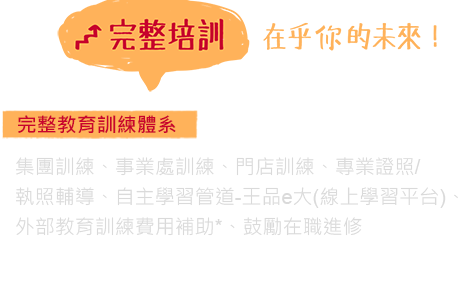
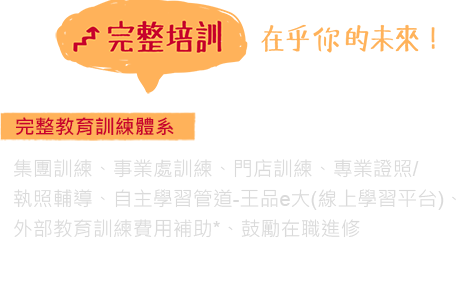
[update] update img RwD (control width)

diff --git a/layoutpractice/wang/style/style.css b/layoutpractice/wang/style/style.css
@@ -49,7 +49,7 @@ ol h2 {
   text-decoration: none;
   color: #000; }
 
-@media only screen and (max-width: 768px) {
+@media only screen and (max-width: 480px) {
   img {
     width: 100%; } }
 
@@ -183,8 +183,11 @@ ol h2 {
   background: url("../../img/bk/keyimage-bg.png") no-repeat center/cover #c9032e; }
   .banner__title-box {
     text-align: center; }
-    .banner__title-box img {
+    .banner__title-box > img {
       vertical-align: middle; }
+  @media only screen and (max-width: 768px) {
+    .banner__title-box > img {
+      width: 100%; } }
 
 .talent {
   text-align: center;
@@ -214,6 +217,9 @@ ol h2 {
   @media only screen and (max-width: 480px) {
     .talent__company-wrap {
       margin: 0; } }
+  @media only screen and (max-width: 768px) {
+    .talent__img-box--step > img {
+      width: 100%; } }
 
 .career {
   position: relative;
@@ -226,25 +232,32 @@ ol h2 {
     top: -14rem;
     margin-bottom: -14rem; }
   .career__img-box--training {
-    max-width: 459px;
-    max-height: 289px; }
-    .career__img-box--training > img {
-      width: 100%;
-      height: 100%; }
+    position: relative;
+    top: 3px; }
   .career-group {
     margin: 2.1rem 0 3.9rem; }
     .career-group > .img-box {
       display: inline-block; }
+  @media only screen and (max-width: 768px) {
+    .career__img-box--growing > img, .career__img-box--title > img {
+      width: 100%; } }
 
 .welfare {
   padding: 6.9rem 0;
   padding-bottom: 18rem;
   background: url("../../img/bk/welfare-bg.png") no-repeat center; }
-  .welfare-group > .img-box {
-    display: inline-block; }
-    .welfare-group > .img-box:nth-child(2) {
-      position: relative;
-      top: 3.9rem; }
+  .welfare__img-box--title {
+    margin-bottom: 1.2rem; }
+  .welfare-group {
+    margin-bottom: 2.1rem; }
+    .welfare-group > .img-box {
+      display: inline-block; }
+  .welfare__remark {
+    color: #c9032e;
+    font-size: 2.1rem;
+    font-weight: 400;
+    line-height: 2.1rem;
+    letter-spacing: 2px; }
 
 .active {
   box-shadow: 0 0 0 1px #cd0000; }
@@ -285,5 +298,7 @@ ol h2 {
     font-weight: 400;
     line-height: 3.5rem; }
   @media only screen and (max-width: 768px) {
+    .footer__img-box--btn > img {
+      width: 100%; }
     .footer__content__title-2 {
       text-align: center; } }

diff --git a/layoutpractice/wang/index.html b/layoutpractice/wang/index.html
@@ -56,7 +56,7 @@
                 <div class="talent__img-box talent__img-box--paragraph"><img src="./img/paragraph-1.png" alt=""></div>
                 <div class="talent__img-box talent__img-box--paragraph"><img src="./img/paragraph-2.png" alt=""></div>
             </div>
-            <div class="talent__img-box talent__img-box--stet"><img src="./img/step.png" alt=""></div>
+            <div class="talent__img-box talent__img-box--step"><img src="./img/step.png" alt=""></div>
         </div>
     </section>
     <section class="section section--career">
@@ -77,6 +77,7 @@
                 <div class="img-box welfare__img-box welfare__img-box--welfare"><img src="./img/welfare-2.png" alt=""></div>
                 <div class="img-box welfare__img-box welfare__img-box--welfare"><img src="./img/welfare-3.png" alt=""></div>
             </div>
+            <span class="welfare__remark">備註：(*)依事業處規定</span>
         </div>
     </section>
     <section class="section section--active">

diff --git a/layoutpractice/wang/scss/component/_career.scss b/layoutpractice/wang/scss/component/_career.scss
@@ -14,16 +14,11 @@
             margin-bottom: -14rem;
         }
 
+        // 對齊 img
         &--training {
-            max-width: 459px;
-            max-height: 289px;
-            > img {
-                width: 100%;
-                height: 100%;
-                
-            }
+            position: relative;
+            top: 3px;
         }
-
     }
 
     &-group {
@@ -32,4 +27,15 @@
             display: inline-block;
         }
     }
+
+    @include respond('tablet') {
+        &__img-box {
+            &--growing,&--title {
+                > img {
+                    width: 100%;
+                }
+            }
+        }
+    }
 }
+

diff --git a/layoutpractice/wang/scss/component/_welfare.scss b/layoutpractice/wang/scss/component/_welfare.scss
@@ -4,14 +4,23 @@
     padding-bottom: 18rem;
     background: url("../../img/bk/welfare-bg.png") no-repeat center;
 
+    &__img-box {
+        &--title {
+            margin-bottom: nth($m,3);
+        }
+    }
+
     &-group {
+        margin-bottom: nth($m,6);
+
         > .img-box {
             display: inline-block;
-
-            &:nth-child(2) {
-                position: relative;
-                top: 3.9rem;
-            }
         }
+    }
+
+    &__remark {
+        color: $color-primary;
+        @include font(4,0);
+        letter-spacing: 2px;
     }
 }

diff --git a/layoutpractice/wang/scss/component/_talent.scss b/layoutpractice/wang/scss/component/_talent.scss
@@ -27,6 +27,8 @@
                 margin-bottom: nth($m,6);
             }
         }
+
+        
     }
 
     &-group {
@@ -65,6 +67,16 @@
             // height: 3.3rem;
             // box-shadow: 0 0 0 1px #000;
             // border-radius: 50%;
+        }
+    }
+
+    @include respond('tablet') {
+        &__img-box {
+            &--step {
+                > img {
+                    width: 100%;
+                }
+            }
         }
     }
 

diff --git a/layoutpractice/wang/scss/component/_banner.scss b/layoutpractice/wang/scss/component/_banner.scss
@@ -6,8 +6,16 @@
 
     &__title-box {
         text-align: center;
-        img {
+        > img {
             vertical-align: middle;
+        }
+    }
+
+    @include respond('tablet') {
+        &__title-box {
+            > img {
+                width: 100%;
+            }
         }
     }
 }

diff --git a/layoutpractice/wang/scss/component/_footer.scss b/layoutpractice/wang/scss/component/_footer.scss
@@ -28,6 +28,14 @@
     }
 
     @include respond('tablet') {
+        &__img-box {
+            &--btn {
+                > img {
+                    width: 100%;
+                }
+            }
+        }
+
         &__content {
             &__title-2 {
                 text-align: center;

diff --git a/layoutpractice/wang/scss/base/_base.scss b/layoutpractice/wang/scss/base/_base.scss
@@ -70,7 +70,7 @@ ol h2 {
     }
 }
 
-@include respond('tablet') {
+@include respond('phone') {
     img {
         width: 100%;
     }
